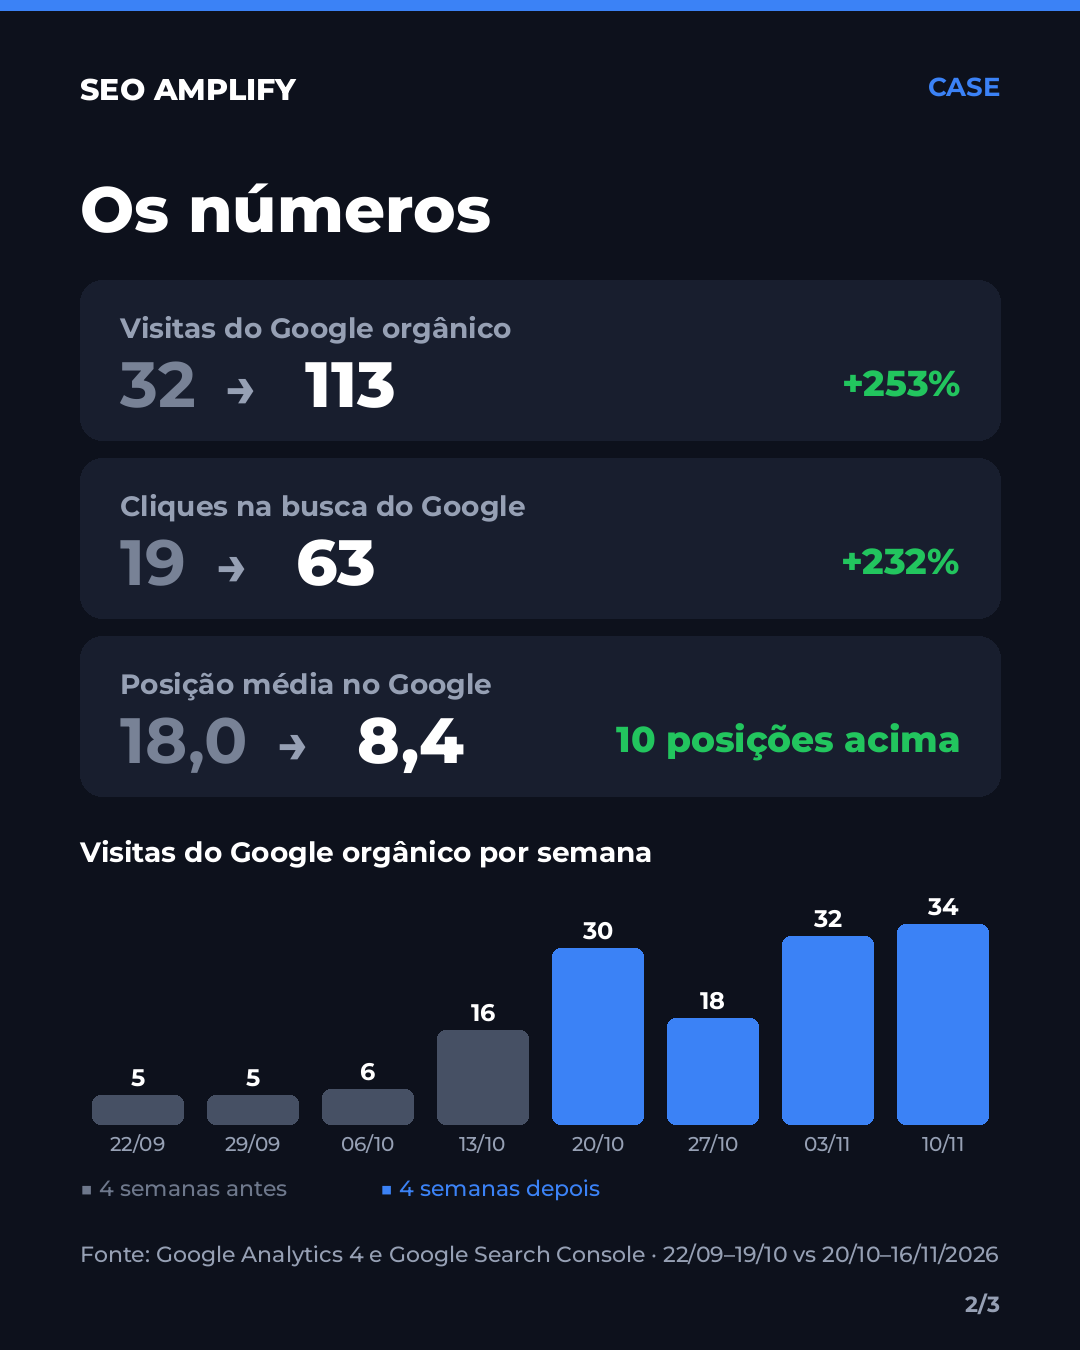
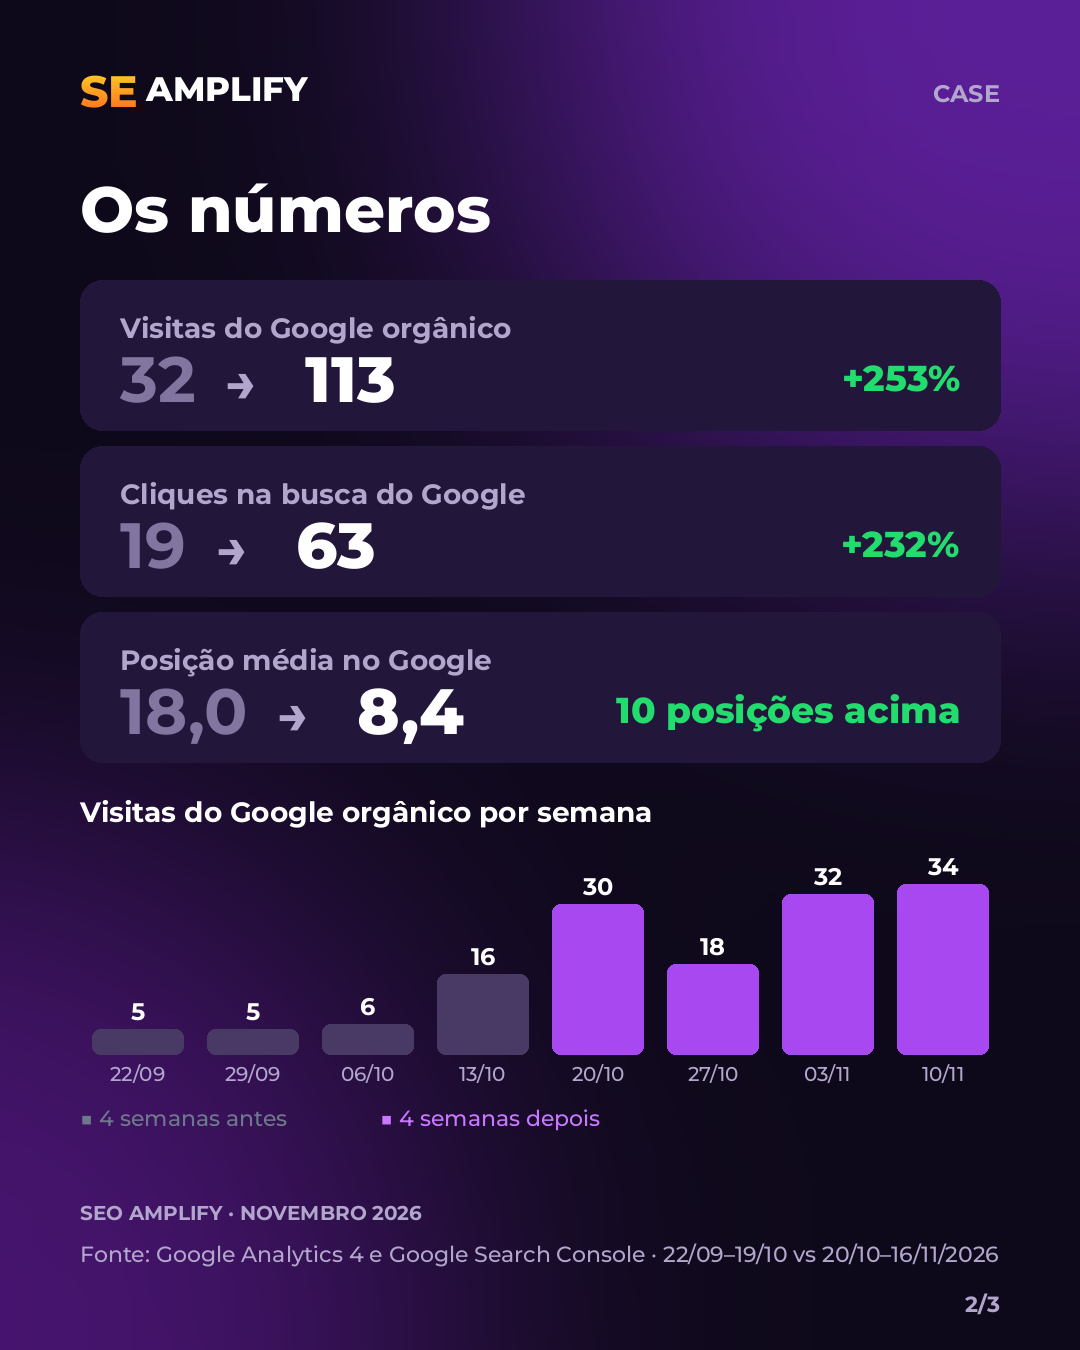
Post Andaimaq no visual da SEO Amplify (roxo, laranja e + verde como no case Flyton)
Claude-Session: https://claude.ai/code/session_0119gFMjuzD9Z8t38qmvHADB

diff --git a/andaimaq/instagram/gerar.py b/andaimaq/instagram/gerar.py
@@ -3,16 +3,34 @@ import sys, os
 from PIL import Image, ImageDraw, ImageFont
 OUT = sys.argv[1]; D = os.path.dirname(os.path.abspath(__file__))
 F = lambda w, s: ImageFont.truetype(os.path.join(D, f'M{w}.ttf'), s)
-BG, CARD, TX, MUT, AC, UP = (13, 17, 28), (24, 30, 46), (255, 255, 255), (150, 160, 180), (59, 130, 246), (34, 197, 94)
+BG, CARD, TX, MUT, AC, UP = (14, 9, 26), (34, 22, 58), (255, 255, 255), (178, 166, 205), (168, 72, 240), (34, 220, 110)
+OR1, OR2, PK = (255, 196, 40), (255, 120, 30), (226, 60, 200)
 FONTE = 'Fonte: Google Analytics 4 e Google Search Console · 22/09–19/10 vs 20/10–16/11/2026'
 SEM = [('22/09', 5), ('29/09', 5), ('06/10', 6), ('13/10', 16), ('20/10', 30), ('27/10', 18), ('03/11', 32), ('10/11', 34)]
 KPI = [('Visitas do Google orgânico', '32', '113', '+253%'), ('Cliques na busca do Google', '19', '63', '+232%'), ('Posição média no Google', '18,0', '8,4', '10 posições acima')]
+from PIL import ImageFilter, ImageChops
+
+def grad_text(im, xy, txt, font, c1, c2, anchor='la'):
+    m = Image.new('L', im.size, 0); ImageDraw.Draw(m).text(xy, txt, font=font, fill=255, anchor=anchor)
+    bb = m.getbbox(); g = Image.new('RGB', im.size, c1)
+    if bb:
+        gd = ImageDraw.Draw(g); y0, y1 = bb[1], bb[3]
+        for y in range(y0, y1 + 1):
+            t = (y - y0) / max(1, y1 - y0); gd.line((0, y, im.size[0], y), fill=tuple(int(a + (b - a) * t) for a, b in zip(c1, c2)))
+    im.paste(g, (0, 0), m)
+
+def logo(im, d, x, y, s=1.0):
+    grad_text(im, (x, y), 'SE', F(800, int(44 * s)), OR1, OR2)
+    w = d.textlength('SE', font=F(800, int(44 * s)))
+    d.text((x + w + 8 * s, y + 4 * s), 'AMPLIFY', font=F(800, int(34 * s)), fill=TX)
 
 def base(h):
-    im = Image.new('RGB', (1080, h), BG); d = ImageDraw.Draw(im)
-    d.rectangle((0, 0, 1080, 10), fill=AC)
-    d.text((80, 70), 'SEO AMPLIFY', font=F(800, 30), fill=TX)
-    d.text((1000, 70), 'CASE', font=F(700, 26), fill=AC, anchor='ra')
+    im = Image.new('RGB', (1080, h), BG)
+    glow = Image.new('RGB', (1080, h), BG); gd = ImageDraw.Draw(glow)
+    gd.ellipse((520, -380, 1480, 520), fill=(90, 30, 150)); gd.ellipse((-420, h - 520, 420, h + 360), fill=(70, 20, 110))
+    im = glow.filter(ImageFilter.GaussianBlur(170)); d = ImageDraw.Draw(im)
+    logo(im, d, 80, 64)
+    d.text((1000, 78), 'CASE', font=F(700, 24), fill=MUT, anchor='ra')
     return im, d
 
 def wrap(d, txt, font, maxw):
@@ -30,6 +48,7 @@ def para(d, xy, txt, font, fill, maxw, gap=1.25, anchor='la'):
     return y
 
 def rodape(d, h, pag=None):
+    d.text((80, h - 150), 'SEO AMPLIFY · NOVEMBRO 2026', font=F(700, 20), fill=MUT)
     para(d, (80, h - 110), FONTE, F(500, 22), MUT, 920)
     if pag: d.text((1000, h - 60), pag, font=F(700, 22), fill=MUT, anchor='ra')
 
@@ -38,18 +57,18 @@ def grafico(d, x, y, w, h):
     d.text((x, y - 60), 'Visitas do Google orgânico por semana', font=F(700, 28), fill=TX)
     for i, (lab, v) in enumerate(SEM):
         bh = (h - 70) * v / mx; x0 = x + i * bw + 12; x1 = x + (i + 1) * bw - 12
-        cor = AC if i >= 4 else (70, 80, 100)
+        cor = AC if i >= 4 else (72, 58, 100)
         d.rounded_rectangle((x0, y + h - 40 - bh, x1, y + h - 40), 8, fill=cor)
         d.text(((x0 + x1) / 2, y + h - 48 - bh), str(v), font=F(700, 24), fill=TX, anchor='mb')
         d.text(((x0 + x1) / 2, y + h - 30), lab, font=F(500, 20), fill=MUT, anchor='mt')
     d.text((x, y + h + 10), '■ 4 semanas antes', font=F(500, 22), fill=(110, 120, 140))
-    d.text((x + 300, y + h + 10), '■ 4 semanas depois', font=F(500, 22), fill=AC)
+    d.text((x + 300, y + h + 10), '■ 4 semanas depois', font=F(500, 22), fill=(200, 120, 255))
 
 def kpis(d, y, gap=24, ch=190):
     for t, a, b, delta in KPI:
         k = (ch - 190) // 2; d.rounded_rectangle((80, y, 1000, y + ch), 22, fill=CARD)
         d.text((120, y + 30), t, font=F(700, 28), fill=MUT)
-        d.text((120, y + 80 + k), a, font=F(700, 64), fill=(120, 130, 150))
+        d.text((120, y + 80 + k), a, font=F(700, 64), fill=(130, 118, 160))
         xa = 120 + d.textlength(a, font=F(700, 64)) + 30
         d.text((xa, y + 88 + k), '→', font=F(700, 54), fill=MUT)
         d.text((xa + 80, y + 80 + k), b, font=F(800, 64), fill=TX)
@@ -61,29 +80,29 @@ FEITO = ['Página de preços reescrita para quem pesquisa "quanto custa"', 'Pág
 
 def capa(h, story=False):
     im, d = base(h); y = 330 if story else 230
-    d.text((80, y), 'ANDAIMAQ · LOCAÇÃO DE EQUIPAMENTOS · SP', font=F(700, 26), fill=AC); y += 80
-    d.text((76, y), '+253%', font=F(800, 230 if story else 210), fill=TX); y += 260 if story else 240
+    d.text((80, y), 'C A S E  ·  A N D A I M A Q', font=F(700, 24), fill=OR1); y += 70
+    fz = F(800, 240 if story else 220); d.text((70, y), '+', font=fz, fill=UP); d.text((70 + d.textlength('+', font=fz), y), '253%', font=fz, fill=TX); y += 270 if story else 250
     y = para(d, (80, y), 'de visitas vindas do Google orgânico em 28 dias', F(700, 58), TX, 900) + 40
     y = para(d, (80, y), 'De 32 para 113 visitas, comparando 28 dias com os 28 dias anteriores. Visitas do Google sem pagar por clique.', F(500, 34), MUT, 900)
     if story:
-        d.rounded_rectangle((80, h - 420, 1000, h - 260), 26, fill=CARD)
+        d.rounded_rectangle((80, h - 420, 1000, h - 260), 80, fill=AC)
         d.text((540, h - 340), 'Veja como foi →', font=F(800, 46), fill=TX, anchor='mm')
     else:
-        d.text((1000, h - 190), 'Arraste para o lado →', font=F(700, 28), fill=AC, anchor='ra')
+        d.text((1000, h - 190), 'Arraste para o lado →', font=F(700, 28), fill=OR1, anchor='ra')
     rodape(d, h, None if story else '1/3'); return im
 
 def numeros(h, story=False):
     im, d = base(h); y = 200 if story else 170
     d.text((80, y), 'Os números', font=F(800, 64), fill=TX); y += 110
-    y = kpis(d, y, 30, 190) + 90 if story else kpis(d, y, 18, 160) + 80
-    grafico(d, 80, y + (40 if story else 0), 920, 400 if story else 270)
+    y = kpis(d, y, 30, 190) + 90 if story else kpis(d, y, 16, 150) + 76
+    grafico(d, 80, y + (40 if story else 0), 920, 400 if story else 240)
     rodape(d, h, None if story else '2/3'); return im
 
 def fechamento(h, story=False):
     im, d = base(h); y = 300 if story else 170
     d.text((80, y), 'O que fizemos', font=F(800, 64), fill=TX); y += 120
     for t in FEITO:
-        d.ellipse((80, y + 14, 104, y + 38), fill=AC)
+        d.ellipse((80, y + 14, 104, y + 38), fill=OR1)
         y = para(d, (130, y), t, F(700, 36 if story else 32), TX, 860) + (28 if story else 16)
     y += 30
     d.rounded_rectangle((80, y, 1000, y + 200), 22, fill=CARD)
